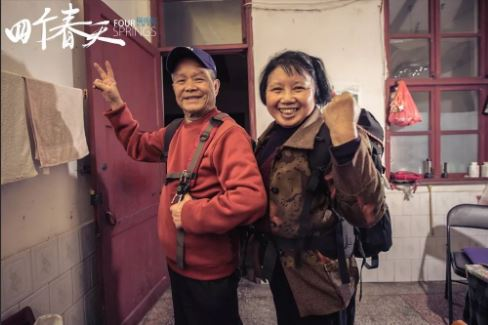
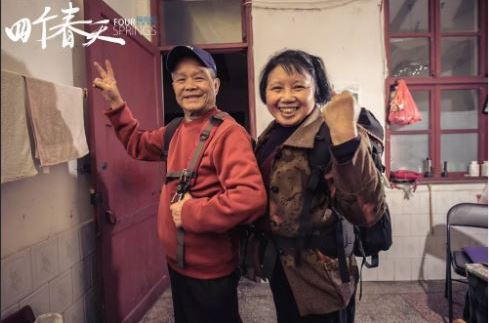
Site updated: 2019-01-23 15:59:48

diff --git a/2019/01/23/Four-Springs/index.html b/2019/01/23/Four-Springs/index.html
@@ -140,7 +140,7 @@
         <p>在回家的高铁上，不知如何度过余下两个小时，闭上眼，突然冒出一个源于电影的想法：燕子——在巢里长大，翅膀硬了就飞去了遥远的地方，花花世界，天高海阔，不时回老家看看，却不再久留，来年春暖花开，重新启程，背后是一直守在原地目送的目光。像不像我们？</p>
 <hr>
 <p>上周末和室友去看了<strong>《四个春天》</strong>，虽是粗糙的拍摄，但却是细腻的情感。我不忍心回想有几个片段的镜头晃得我头晕想吐（很可能因为买票较晚，座位选在了第二排），但看完了电影后，脑海中的印象与内心的情感交缠，有一些片段，是电影中的家庭回忆，却也是我真真实实经历过的，所以，共鸣。</p>
-<p><div align="center"><br><img src="/2019/01/23/Four-Springs/happiness.jpg" width="30%" height="30%"></div></p>
+<p><div align="center"><br><img src="/2019/01/23/Four-Springs/happiness.jpg" width="80%" height="80%"></div></p>
 <div align="left">
 
 <p>准确来说，这是一部<strong>家庭纪录片</strong>，导演以自己年逾古稀的父母为主要拍摄对象，展现了家乡黔南贵州小镇的淳朴生活——劳作、歌唱、出游山野、探亲、丧葬、欢聚、离别，有酒有肉、有锅又灶、有歌有舞、有说有笑、有悲有喜。</p>
